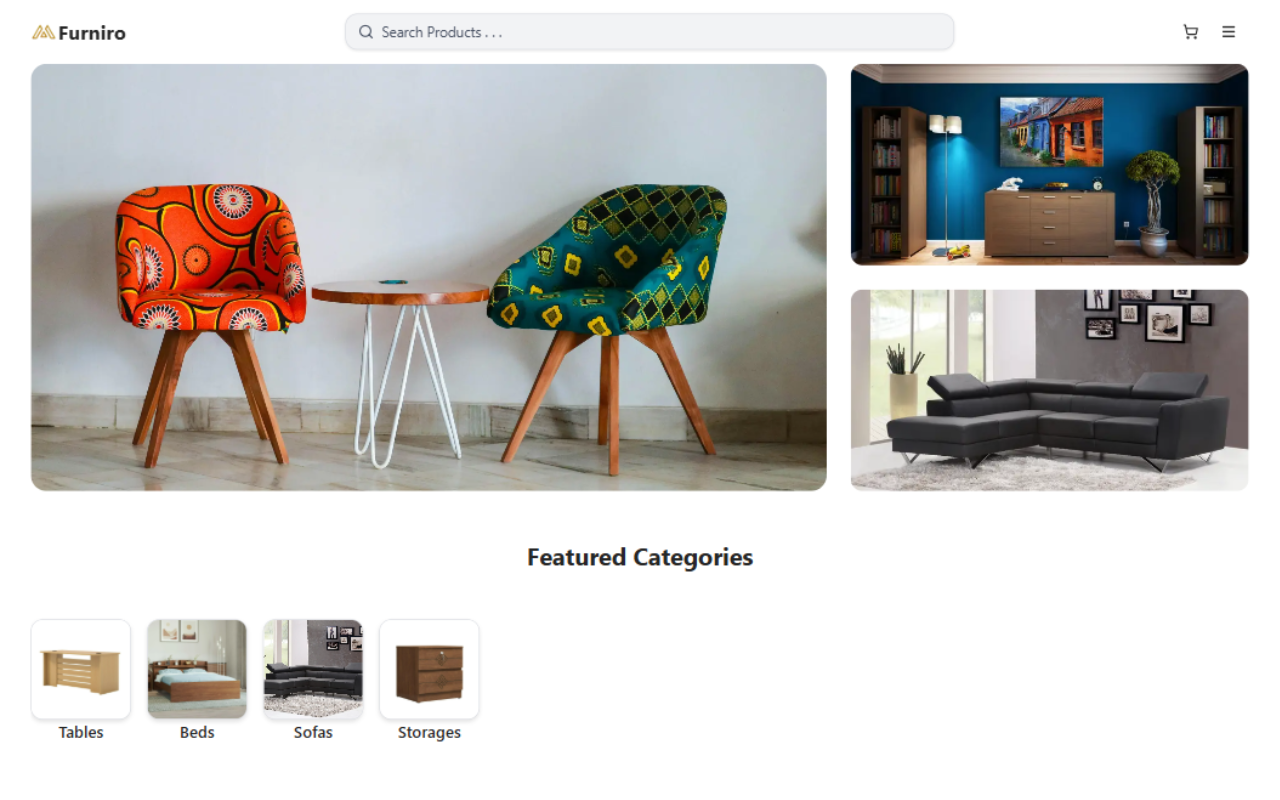
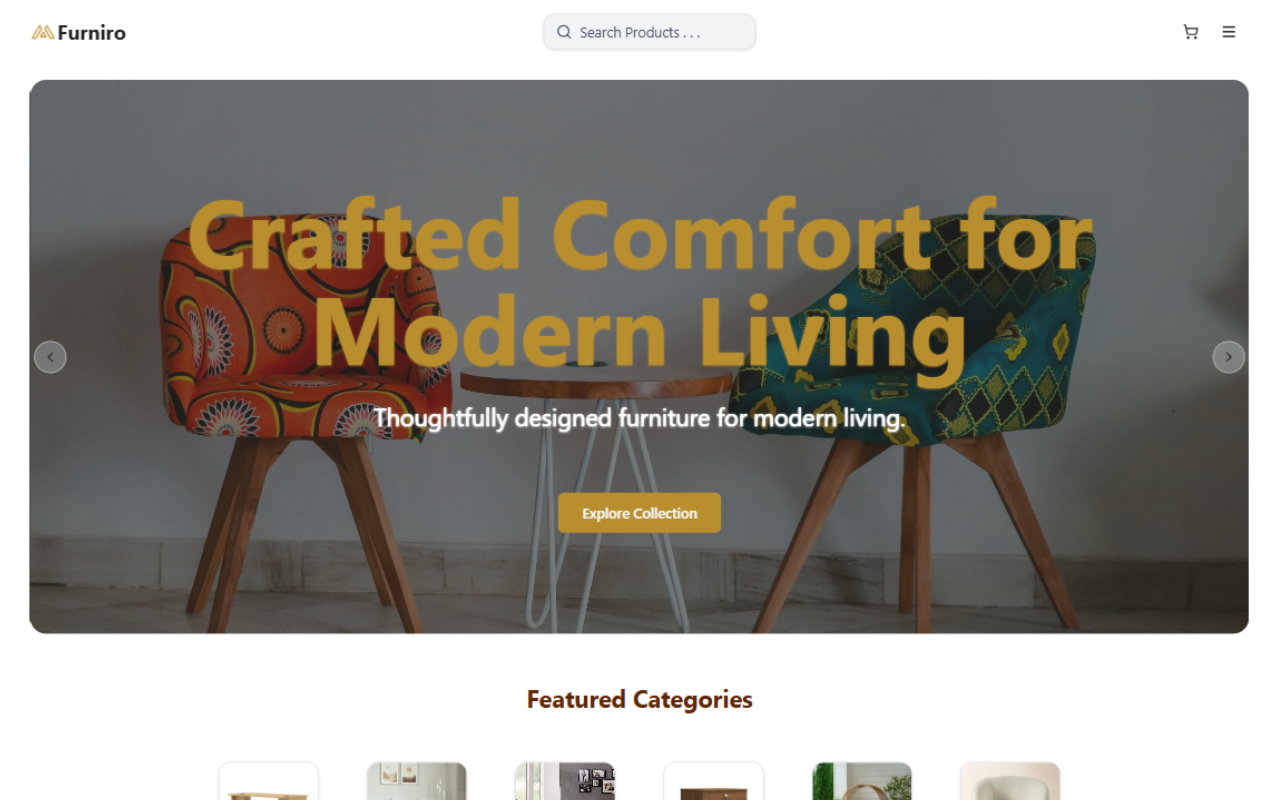
update: add new project and change furniro image

diff --git a/src/constants.ts b/src/constants.ts
@@ -12,6 +12,16 @@ export const PROJECTS: Project[] = [
     link: "https://furniro-hazel-nine.vercel.app/",
     github: "https://github.com/mdshakerullahS/Furniro",
   },
+  {
+    id: "2",
+    title: "OSS_Match",
+    description:
+      "An open-source issue matcher that helps developers find relevant GitHub issues to contribute to.",
+    tags: ["Next.js", "PostgreSQL", "Prisma ORM", "Redis"],
+    image: "/projects/OSS_Match.png",
+    link: "https://oss-match.vercel.app/",
+    github: "https://github.com/mdshakerullahS/OSS_Match",
+  },
 ];
 
 export const SKILLS: string[] = [
